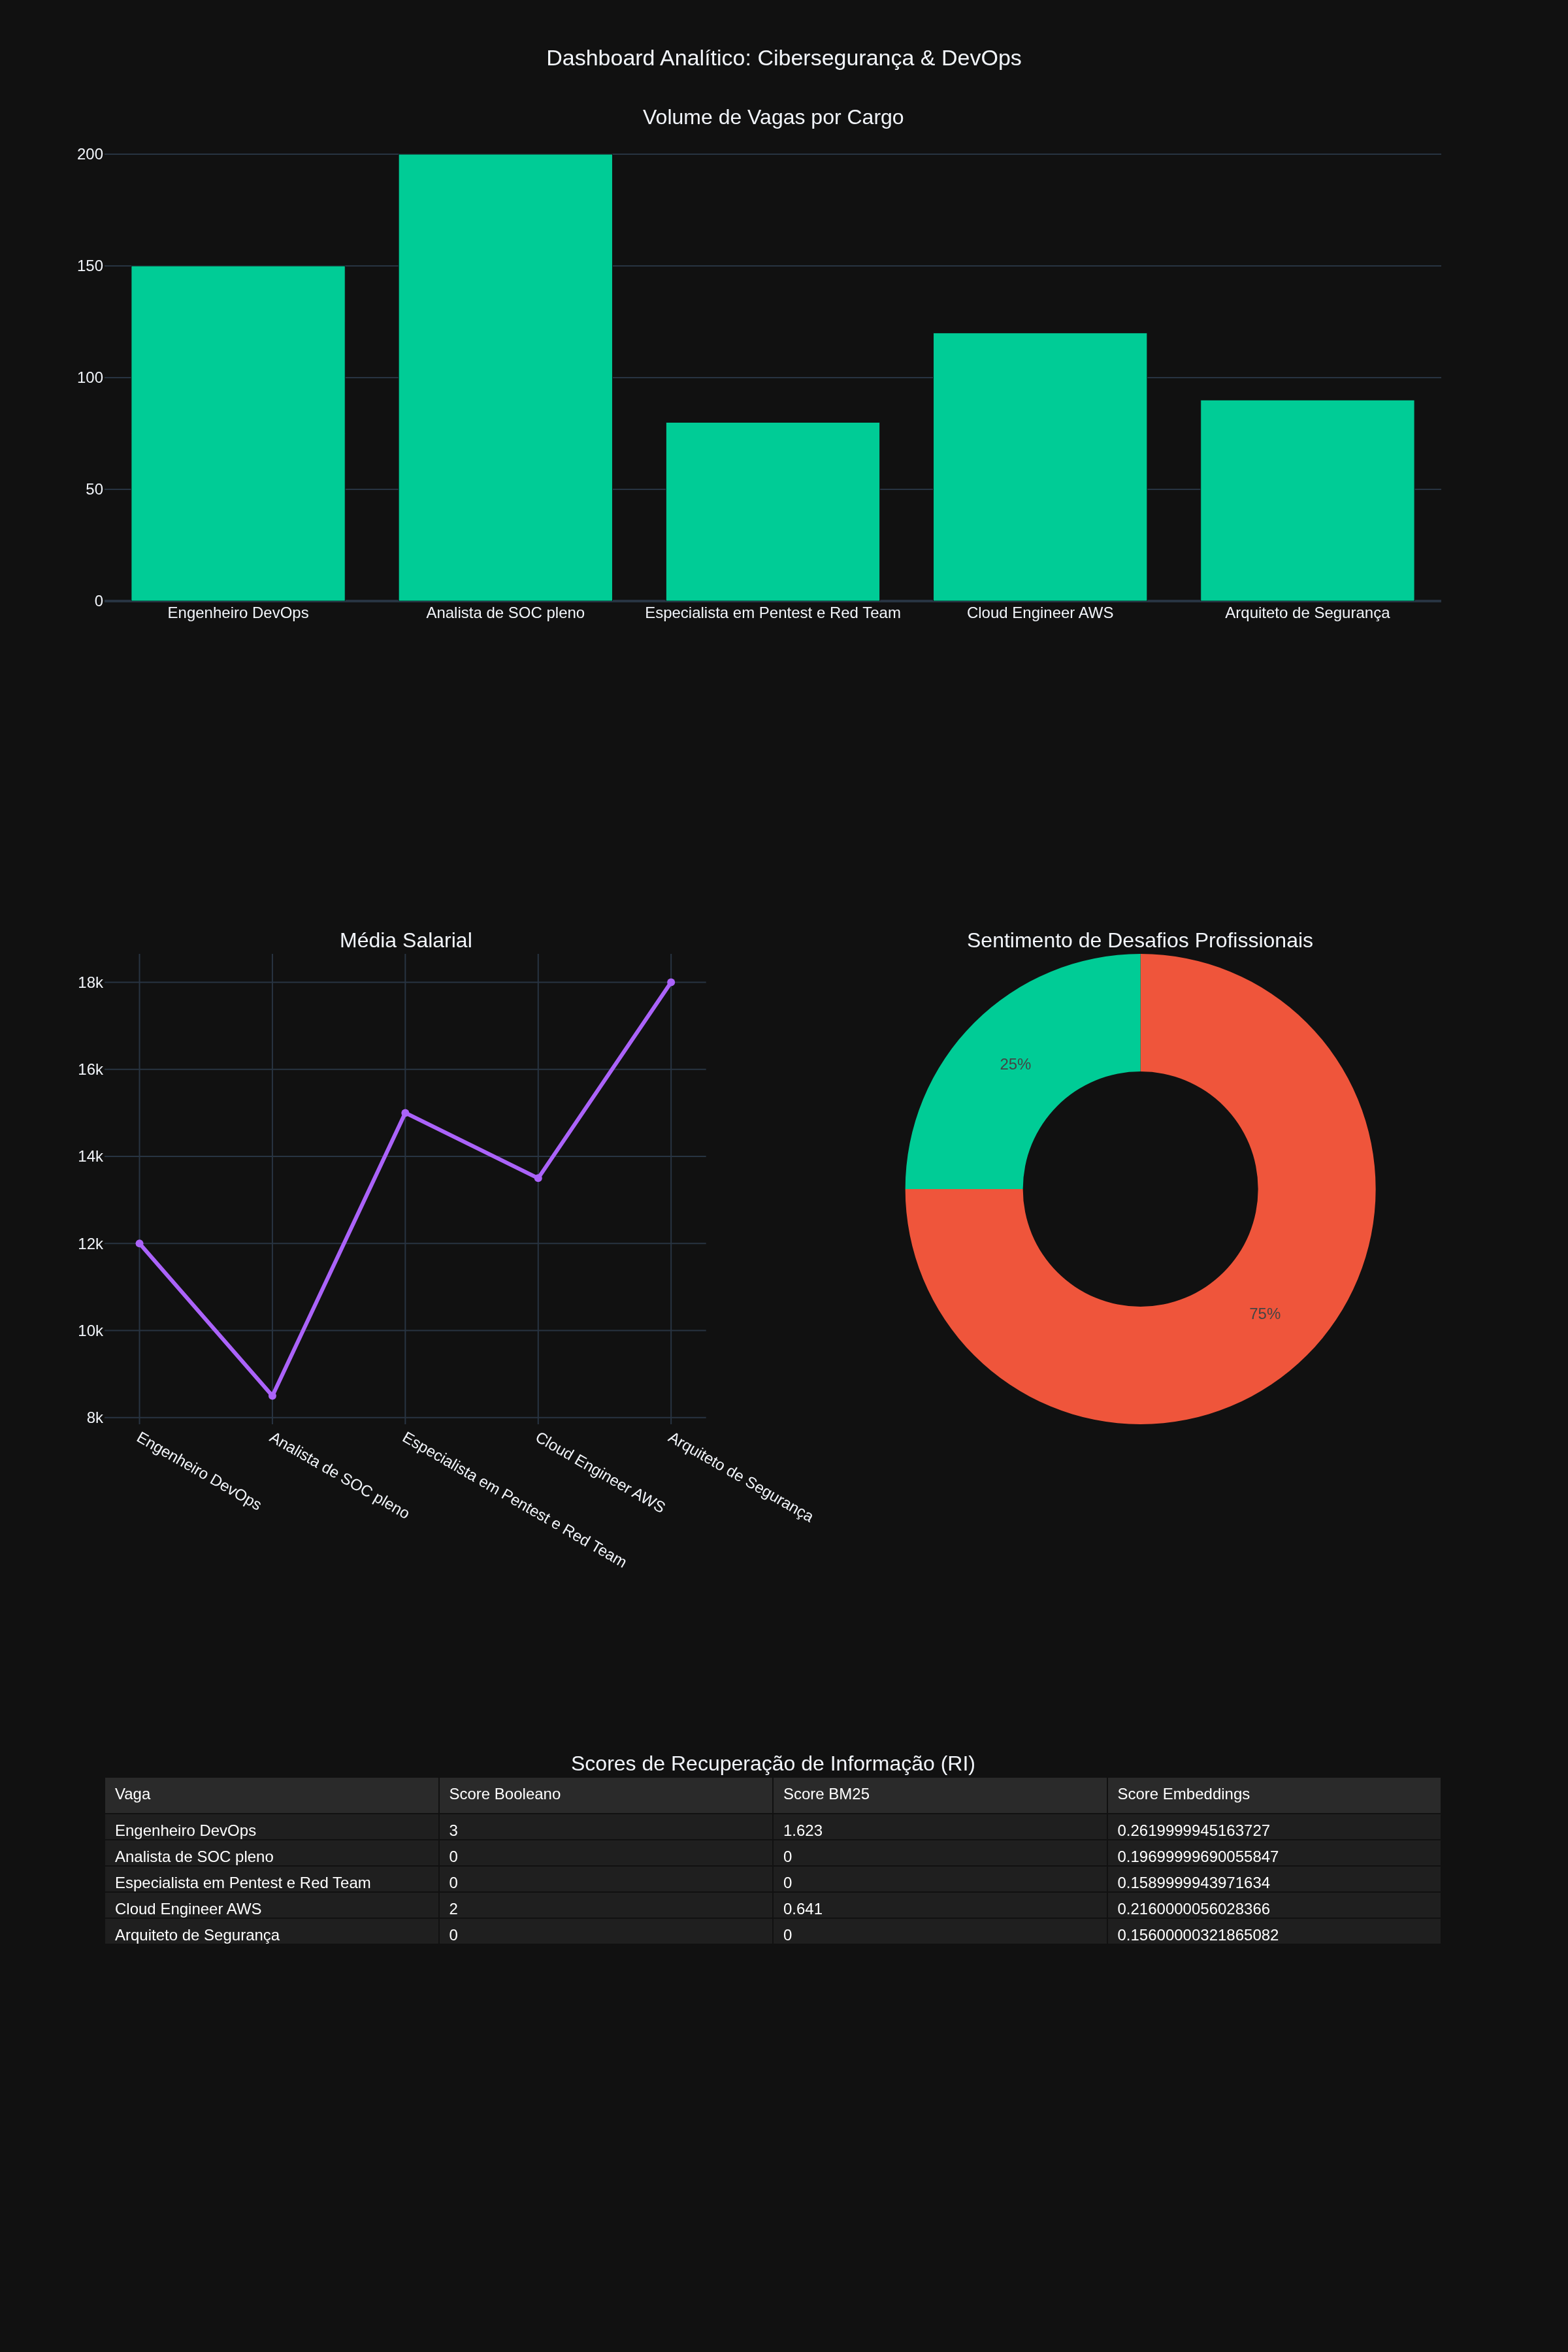
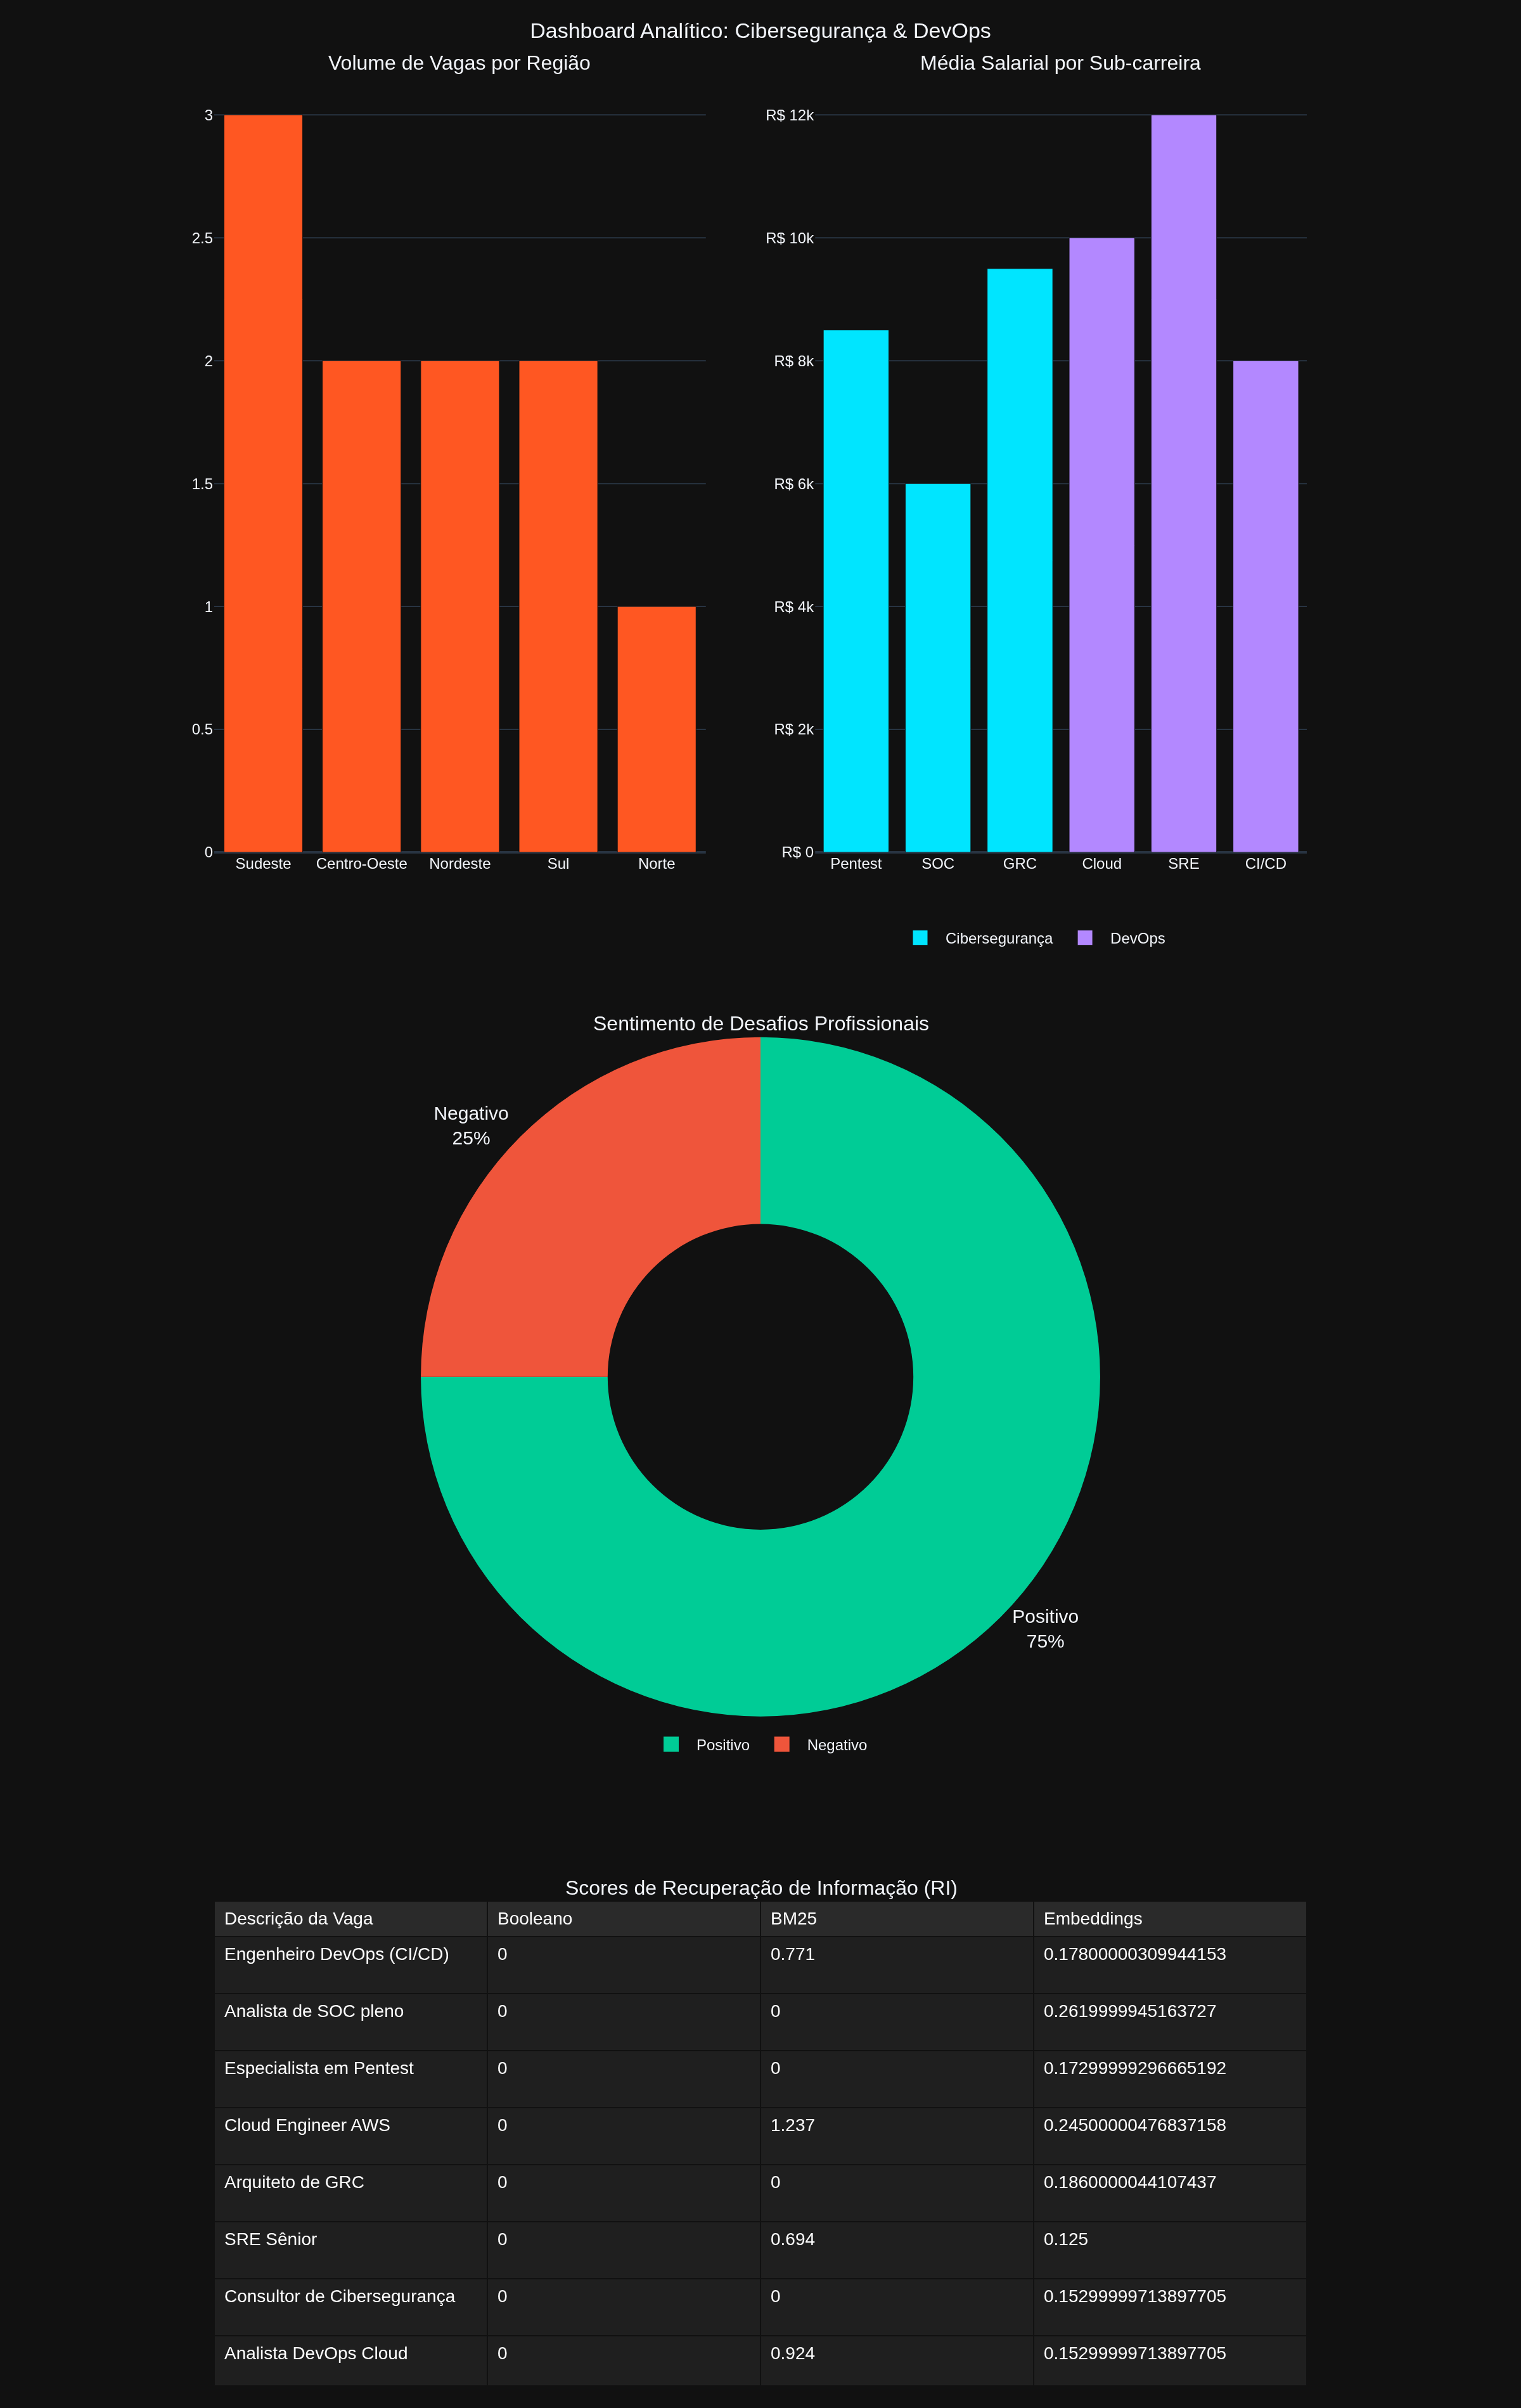
RDI v1.3

diff --git a/analise_final_plotly.py b/analise_final_plotly.py
@@ -9,18 +9,69 @@ from plotly.subplots import make_subplots
 
 # Dados de NLP (Simulação)
 data = {
-    'titulo_vaga': ['Engenheiro DevOps', 'Analista de SOC pleno', 'Especialista em Pentest e Red Team', 'Cloud Engineer AWS', 'Arquiteto de Segurança'],
-    'descricao': [
-        'Engenheiro DevOps com foco em AWS, Docker e Kubernetes. Necessário experiência em CI/CD.',
-        'Atuação no Security Operations Center analisando incidentes 24/7.',
-        'Realizar testes de invasão, simular ataques e elaborar relatórios de vulnerabilidades.',
-        'Migração e manutenção de infraestrutura cloud na AWS utilizando Terraform e Kubernetes.',
-        'Desenho de soluções seguras e arquitetura zero-trust em ambientes híbridos.'
+    'titulo_vaga': [
+        'Engenheiro DevOps (CI/CD)', 'Analista de SOC pleno', 'Especialista em Pentest', 
+        'Cloud Engineer AWS', 'Arquiteto de GRC', 'SRE Sênior', 
+        'Consultor de Cibersegurança', 'Analista DevOps Cloud', 'Especialista em AWS Cloud',
+        'Red Team (Pentest)'
     ],
-    'volume': [150, 200, 80, 120, 90],
-    'salario': [12000, 8500, 15000, 13500, 18000]
+    'descricao': [
+        'Engenheiro com foco em CI/CD, Docker e Kubernetes.',
+        'Atuação no SOC analisando incidentes e segurança 24/7.',
+        'Realizar teste de invasão, simular ataques e relatórios.',
+        'Migração cloud na AWS utilizando Terraform e Docker.',
+        'Desenho de soluções seguras e GRC em ambientes híbridos.',
+        'Engenharia de confiabilidade (SRE) e automação de infra com Kubernetes.',
+        'Consultoria focada em arquitetura de segurança e auditoria.',
+        'Automação de infra, CI/CD, kubernetes.',
+        'Gerenciamento de recursos na AWS e otimização de cloud.',
+        'Atuação em red team e teste de invasão avançado.'
+    ],
+    'salario': [12000, 8500, 15000, 13500, 18000, 16000, 14000, 10000, 14500, 15500],
+    'UF': ['SP', 'DF', 'PE', 'MG', 'RS', 'RJ', 'CE', 'PR', 'AM', 'GO']
 }
 df_vagas = pd.DataFrame(data)
+
+# Categorização de Área (Cyber vs DevOps)
+def map_area(descricao):
+    descricao_low = descricao.lower()
+    if re.search(r'segurança|pentest|soc|cyber|invasão|grc', descricao_low):
+        return 'Cibersegurança'
+    elif re.search(r'devops|aws|cloud|docker|kubernetes|ci/cd|sre', descricao_low):
+        return 'DevOps'
+    return 'Outros'
+
+df_vagas['Area'] = df_vagas['descricao'].apply(map_area)
+
+# Extração de Subárea
+def get_subarea(desc):
+    d = desc.lower()
+    if 'invasão' in d or 'pentest' in d or 'red team' in d: return 'Pentest'
+    if 'soc' in d or 'incidente' in d: return 'SOC'
+    if 'grc' in d or 'arquitetura' in d: return 'GRC/Arq'
+    if 'sre' in d: return 'SRE'
+    if 'ci/cd' in d: return 'CI/CD'
+    if 'cloud' in d or 'aws' in d: return 'Cloud'
+    return 'Outros'
+
+df_vagas['Subarea'] = df_vagas['descricao'].apply(get_subarea)
+
+# Mapeamento de Regiões do Brasil
+regioes_map = {
+    'Norte': ['AM', 'RR', 'AP', 'PA', 'TO', 'RO', 'AC'],
+    'Nordeste': ['MA', 'PI', 'CE', 'RN', 'PE', 'PB', 'SE', 'AL', 'BA'],
+    'Centro-Oeste': ['MT', 'MS', 'GO', 'DF'],
+    'Sudeste': ['SP', 'RJ', 'ES', 'MG'],
+    'Sul': ['PR', 'RS', 'SC']
+}
+
+def map_regiao(uf):
+    for regiao, ufs in regioes_map.items():
+        if uf in ufs:
+            return regiao
+    return 'Indefinido'
+
+df_vagas['Regiao'] = df_vagas['UF'].apply(map_regiao)
 
 # Limpeza de texto
 def clean_text(text):
@@ -31,16 +82,32 @@ def clean_text(text):
 df_vagas['descricao_limpa'] = df_vagas['descricao'].apply(clean_text)
 
 # Modelos de RI
-query = "devops aws kubernetes"
-query_limpa = clean_text(query)
+query_str = "devops aws kubernetes"
+query_limpa = clean_text(query_str)
 query_tokens = query_limpa.split()
 
-# Score Booleano
-def boolean_score(text, tokens):
-    text_tokens = text.split()
-    return sum([1 for t in tokens if t in text_tokens])
+# Dicionário de Sinônimos (Booleano Inteligente)
+sinonimos = {
+    "pentest": ["pentest", "teste de invasão", "teste de penetração"],
+    "devops": ["devops", "sre", "automação de infra"],
+    "aws": ["aws", "amazon web services", "nuvem amazon"],
+    "kubernetes": ["kubernetes", "k8s", "orquestração de contêineres"]
+}
 
-df_vagas['score_booleano'] = df_vagas['descricao_limpa'].apply(lambda x: boolean_score(x, query_tokens))
+def intelligent_boolean_score(text, query_terms, sinonimos_dict):
+    text_lower = text.lower()
+    for term in query_terms:
+        found = term in text_lower
+        if not found and term in sinonimos_dict:
+            for syn in sinonimos_dict[term]:
+                if syn in text_lower:
+                    found = True
+                    break
+        if not found:
+            return 0
+    return 1
+
+df_vagas['score_booleano'] = df_vagas['descricao'].apply(lambda x: intelligent_boolean_score(x, query_tokens, sinonimos))
 
 # Score BM25
 tokenized_corpus = [doc.split() for doc in df_vagas['descricao_limpa']]
@@ -72,60 +139,133 @@ df_sentimentos = pd.DataFrame({'Sentimento': sentimentos})
 contagem_sentimentos = df_sentimentos['Sentimento'].value_counts().reset_index()
 contagem_sentimentos.columns = ['Sentimento', 'Contagem']
 
-# Visualização (Grid Assimétrico)
+# Preparação de Dados para a Região (Volume de Vagas)
+volume_regiao = df_vagas.groupby('Regiao').size().reset_index(name='Volume')
+# Ordenar para ficar bonitinho
+volume_regiao = volume_regiao.sort_values(by='Volume', ascending=False)
+
+# Geração de Dados de Sub-Carreiras
+data_sub = {
+    'Sub-carreira': ['Pentest', 'SOC', 'GRC', 'Cloud', 'SRE', 'CI/CD'],
+    'Area': ['Cibersegurança', 'Cibersegurança', 'Cibersegurança', 'DevOps', 'DevOps', 'DevOps'],
+    'Salario': [8500, 6000, 9500, 10000, 12000, 8000]
+}
+df_subcarreiras = pd.DataFrame(data_sub)
+
+# Visualização (Layout de 3 Linhas e 2 Colunas)
 fig = make_subplots(
     rows=3, cols=2,
-    specs=[[{"type": "bar", "colspan": 2}, None],
-           [{"type": "scatter"}, {"type": "domain"}],
+    specs=[[{"type": "xy"}, {"type": "xy"}], 
+           [{"type": "domain", "colspan": 2}, None], 
            [{"type": "table", "colspan": 2}, None]],
-    subplot_titles=("Volume de Vagas por Cargo", "Média Salarial", "Sentimento de Desafios Profissionais", "Scores de Recuperação de Informação (RI)")
+    row_heights=[0.40, 0.35, 0.25],
+    vertical_spacing=0.08,
+    subplot_titles=("Volume de Vagas por Região", "Média Salarial por Sub-carreira", "Sentimento de Desafios Profissionais", "Scores de Recuperação de Informação (RI)")
 )
 
-# Gráfico de Barras (Volume)
+# Linha 1, Coluna 1 - Gráfico de Barras por Região (substituindo o mapa)
 fig.add_trace(
-    go.Bar(x=df_vagas['titulo_vaga'], y=df_vagas['volume'], marker_color='#00CC96'),
+    go.Bar(
+        name='Vagas',
+        x=volume_regiao['Regiao'],
+        y=volume_regiao['Volume'],
+        marker_color='#FF5722',
+        hovertemplate='Região: %{x}<br>Vagas: %{y}<extra></extra>',
+        showlegend=False
+    ),
     row=1, col=1
 )
 
-# Gráfico de Linhas (Salário)
+# Linha 1, Coluna 2 - Gráfico de Salários (Sub-carreiras)
+df_cyber = df_subcarreiras[df_subcarreiras['Area'] == 'Cibersegurança']
 fig.add_trace(
-    go.Scatter(x=df_vagas['titulo_vaga'], y=df_vagas['salario'], mode='lines+markers', line=dict(color='#AB63FA', width=3)),
+    go.Bar(
+        name='Cibersegurança',
+        x=df_cyber['Sub-carreira'],
+        y=df_cyber['Salario'],
+        marker_color='#00E5FF',
+        hovertemplate='Sub-carreira: %{x}<br>Salário: R$ %{y:,.2f}<extra></extra>',
+        legend='legend'
+    ),
+    row=1, col=2
+)
+
+df_devops = df_subcarreiras[df_subcarreiras['Area'] == 'DevOps']
+fig.add_trace(
+    go.Bar(
+        name='DevOps',
+        x=df_devops['Sub-carreira'],
+        y=df_devops['Salario'],
+        marker_color='#B388FF',
+        hovertemplate='Sub-carreira: %{x}<br>Salário: R$ %{y:,.2f}<extra></extra>',
+        legend='legend'
+    ),
+    row=1, col=2
+)
+
+fig.update_yaxes(tickprefix="R$ ", row=1, col=2)
+
+# Linha 2, Coluna 1 - Gráfico de Rosca (Sentimentos)
+color_map = {'Positivo': '#00CC96', 'Negativo': '#EF553B', 'Neutro': '#636EFA'}
+pie_colors = [color_map.get(sent, '#888888') for sent in contagem_sentimentos['Sentimento']]
+
+fig.add_trace(
+    go.Pie(
+        labels=contagem_sentimentos['Sentimento'], 
+        values=contagem_sentimentos['Contagem'], 
+        hole=0.45, 
+        marker_colors=pie_colors,
+        textinfo='label+percent',
+        textposition='outside',
+        textfont=dict(size=15),
+        domain=dict(x=[0.38, 0.62]),
+        showlegend=True,
+        legend='legend2'
+    ),
     row=2, col=1
 )
 
-# Donut Chart (Sentimentos)
-fig.add_trace(
-    go.Pie(labels=contagem_sentimentos['Sentimento'], values=contagem_sentimentos['Contagem'], hole=0.5, marker_colors=['#EF553B', '#00CC96', '#636EFA']),
-    row=2, col=2
-)
+fig.update_xaxes(visible=False, showline=False, row=2, col=1)
+fig.update_yaxes(visible=False, showline=False, row=2, col=1)
 
-# Tabela (Scores de RI)
+# Linha 3, Coluna 1 - Tabela de RI
+cell_colors = [
+    ['#1f1f1f'] * len(df_vagas),
+    ['#1f1f1f'] * len(df_vagas),
+    ['#1f1f1f'] * len(df_vagas),
+    ['#1f1f1f'] * len(df_vagas)
+]
+
 fig.add_trace(
     go.Table(
-        header=dict(values=["Vaga", "Score Booleano", "Score BM25", "Score Embeddings"],
+        header=dict(values=["Descrição da Vaga", "Booleano", "BM25", "Embeddings"],
                     fill_color='#2a2a2a',
                     align='left',
-                    font=dict(color='white')),
-        cells=dict(values=[df_vagas['titulo_vaga'], 
-                           df_vagas['score_booleano'], 
-                           df_vagas['score_bm25'].round(3), 
-                           df_vagas['score_embeddings'].round(3)],
-                   fill_color='#1f1f1f',
+                    font=dict(color='white', size=14)),
+        cells=dict(values=[df_vagas['titulo_vaga'].tolist(), 
+                           df_vagas['score_booleano'].tolist(), 
+                           df_vagas['score_bm25'].round(3).tolist(), 
+                           df_vagas['score_embeddings'].round(3).tolist()],
+                   fill_color=cell_colors,
                    align='left',
-                   font=dict(color='white'))
+                   font=dict(color='white', size=14),
+                   height=45)
     ),
     row=3, col=1
 )
 
-# Tema e Dimensões
+# Tema e Dimensões do Canvas
 fig.update_layout(
     template='plotly_dark',
-    height=1800,
+    height=1900,
     width=1200,
-    showlegend=False,
+    barmode='group',
+    margin=dict(l=10, r=10, t=60, b=10),
     title_text="Dashboard Analítico: Cibersegurança & DevOps",
-    title_x=0.5
+    title_x=0.5,
+    legend=dict(orientation='h', x=0.75, y=0.635, xanchor='center', yanchor='top', bgcolor='rgba(0,0,0,0)'),
+    legend2=dict(orientation='h', x=0.50, y=0.27, xanchor='center', yanchor='bottom', bgcolor='rgba(0,0,0,0)')
 )
 
 # Exportação Estática
-fig.write_image("dashboard_cybersec.png", width=1200, height=1800, scale=2)
+fig.write_image("dashboard_cybersec.png", width=1200, height=1900, scale=2)

diff --git a/README.md b/README.md
@@ -1,1 +1,29 @@
-# Trabalho-de-RDI
+readme_content = """# Dashboard Analítico & Relatório Técnico: Cibersegurança & DevOps
+
+Este repositório contém a infraestrutura e os scripts necessários para o pipeline de análise de mercado e geração do relatório técnico final sobre as áreas de **Cibersegurança** e **DevOps**. O projeto integra processamento de dados em Python, visualizações avançadas com **Plotly**, e compilação automatizada de relatórios com **Quarto** (Markdown técnico estruturado para PDF).
+
+---
+
+## 1. Organização e Limpeza do Projeto (Arquivos Essenciais)
+
+Para garantir a integridade do pipeline e evitar poluição no diretório de entrega, **mantenha estritamente apenas estes 3 arquivos essenciais**:
+
+1. `analise_final_plotly.py`: Script Python responsável pela engenharia de dados, cálculo de similaridade semântica, classificação de sentimentos e exportação do painel visual estático.
+2. `Trabalho_Final_Arthur.qmd`: Arquivo Quarto que estrutura o relatório acadêmico textualmente e renderiza os gráficos gerados.
+3. `README.md`: Este guia completo de documentação e operação.
+
+*Nota: Todos os outros arquivos temporários, rascunhos de imagens antigas (`dashboard_cybersec_old.png`) ou scripts experimentais das aulas anteriores (`Aula_15_RDI_Embeddings_Sentimentos.qmd`) podem ser movidos para uma pasta de backup ou deletados permanentemente.*
+
+---
+
+## 2. Pré-requisitos do Ambiente
+
+Antes de executar os scripts, certifique-se de ter as ferramentas estruturais e as bibliotecas de dados devidamente instaladas em seu ambiente local.
+
+### Ferramentas de Sistema
+- **Python 3.10 ou superior**
+- **Quarto CLI** (Engine de compilação markdown universal)
+- **Distribuição LaTeX** (como TeX Live, MiKTeX ou TinyTeX) para permitir que o Quarto converta o código markdown diretamente para o formato PDF compilado.
+
+### Bibliotecas Python
+Instale as dependências via terminal executando o comando abaixo: